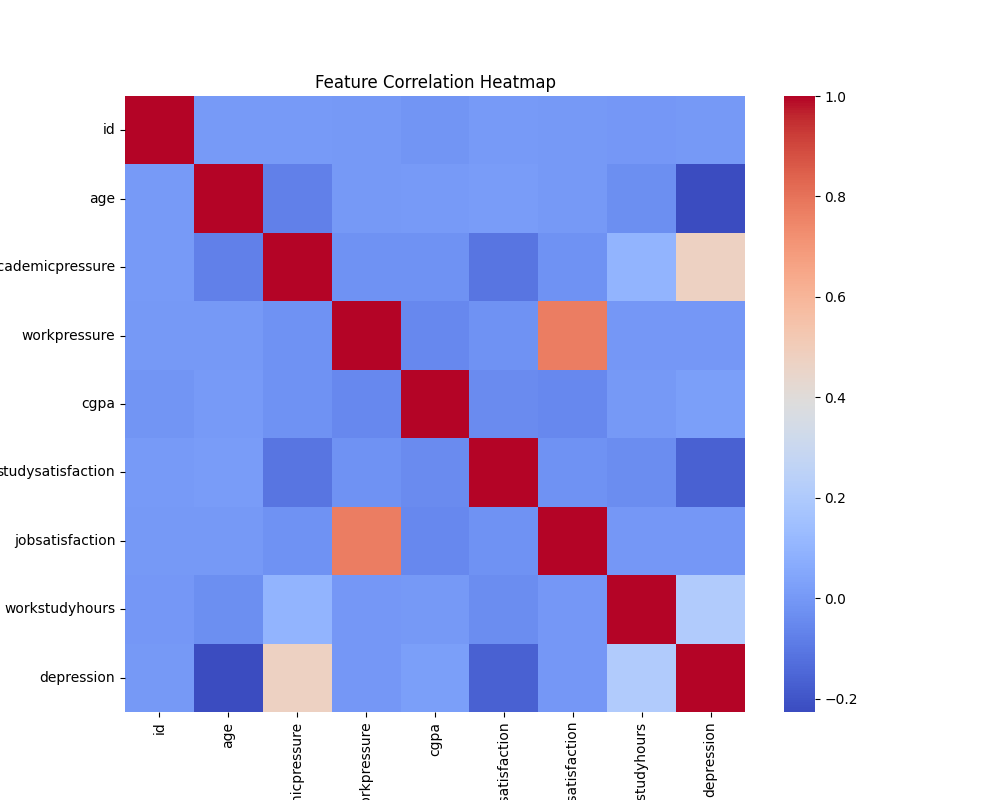
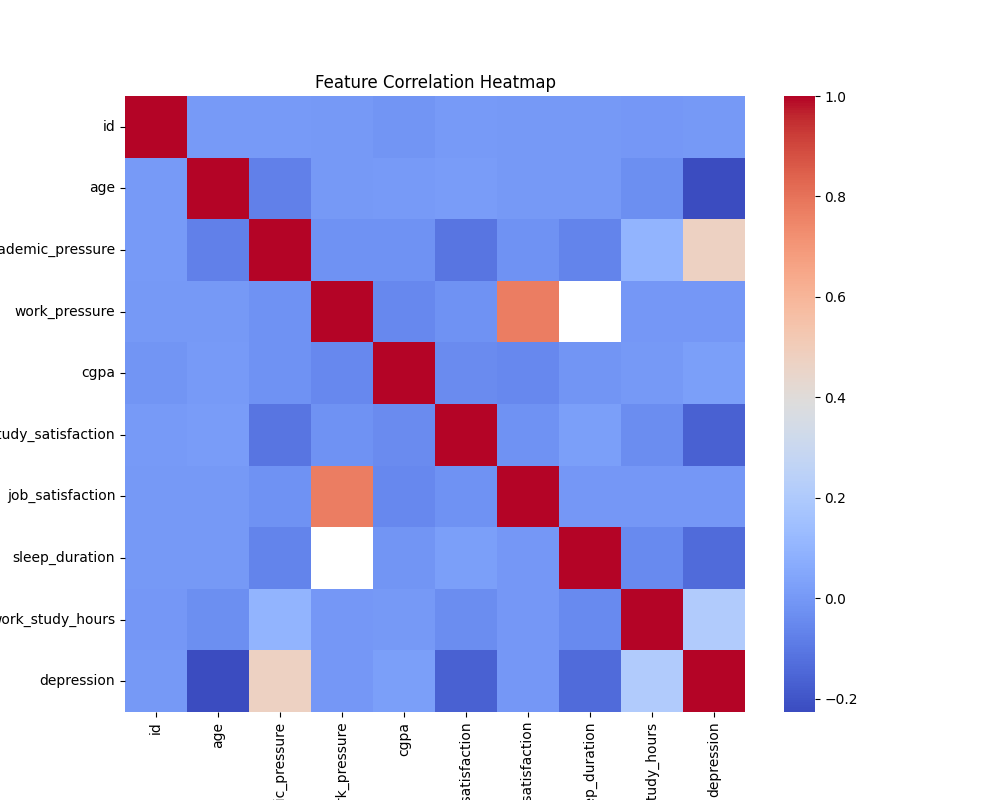
Refactor statistical analysis: remove duplicate sleep_vs_depression function and keep validated pipeline

diff --git a/src/stats_analysis.py b/src/stats_analysis.py
@@ -1,6 +1,8 @@
 import pandas as pd
 from scipy.stats import mannwhitneyu
 import numpy as np
+from pathlib import Path
+
 
 def cohens_d(x, y):
     nx, ny = len(x), len(y)
@@ -10,17 +12,46 @@ def cohens_d(x, y):
     return (np.mean(x) - np.mean(y)) / pooled_std
 
 
-def sleep_vs_depression(df):
-    g0 = df[df["depression"] == 0]["sleepduration"]
-    g1 = df[df["depression"] == 1]["sleepduration"]
+def sleep_vs_depression(df: pd.DataFrame,
+                        sleep_col: str = "sleep_duration",
+                        dep_col: str = "depression") -> dict:
+    # keep only needed cols and drop missing
+    tmp = df[[sleep_col, dep_col]].copy()
+    tmp = tmp.dropna(subset=[sleep_col, dep_col])
 
-    stat, p = mannwhitneyu(g0, g1, alternative="two-sided")
+    # groups
+    g0 = tmp.loc[tmp[dep_col] == 0, sleep_col].astype(float)
+    g1 = tmp.loc[tmp[dep_col] == 1, sleep_col].astype(float)
+
+    # Mann–Whitney U (robust for non-normal)
+    u_stat, p_value = mannwhitneyu(g0, g1, alternative="two-sided")
 
     d = cohens_d(g0, g1)
 
     return {
-        "p_value": p,
-        "effect_size_d": d,
-        "n0": len(g0),
-        "n1": len(g1),
+        "factor": sleep_col,
+        "outcome": dep_col,
+        "test": "Mann-Whitney U",
+        "u_stat": float(u_stat),
+        "p_value": float(p_value),
+        "effect_size_cohens_d": float(d),
+        "n_depr0": int(len(g0)),
+        "n_depr1": int(len(g1)),
+        "mean_depr0": float(g0.mean()) if len(g0) else np.nan,
+        "mean_depr1": float(g1.mean()) if len(g1) else np.nan,
     }
+
+
+def run_statistical_analysis(df: pd.DataFrame, results_dir: Path) -> pd.DataFrame:
+    results_dir.mkdir(parents=True, exist_ok=True)
+
+    rows = [sleep_vs_depression(df)]
+    res = pd.DataFrame(rows)
+
+    out_path = results_dir / "stat_summary.csv"
+    res.to_csv(out_path, index=False)
+
+    print("\n Statistical results saved to:", out_path)
+    print(res)
+
+    return res

diff --git a/src/main.py b/src/main.py
@@ -1,6 +1,8 @@
 from pathlib import Path
 from data_loader import load_student_data
 from eda import run_basic_eda
+from stats_analysis import run_statistical_analysis
+
 
 def main():
     # project root
@@ -18,6 +20,9 @@ def main():
 
     print("Running research EDA...")
     run_basic_eda(df, output_dir)
+
+    results_dir = project_root / "results"
+    run_statistical_analysis(df, results_dir)
 
     print("\nDataset loaded successfully.")
     print("Shape:", df.shape)

diff --git a/src/eda.py b/src/eda.py
@@ -33,7 +33,7 @@ def run_basic_eda(df: pd.DataFrame, output_dir: Path):
 
     # Sleep vs Depression
     plt.figure()
-    sns.boxplot(x="depression", y="sleepduration", data=df)
+    sns.boxplot(x="depression", y="sleep_duration", data=df)
     plt.title("Sleep Duration vs Depression")
     plt.savefig(output_dir / "sleep_vs_depression.png")
     plt.close()

diff --git a/README.md b/README.md
@@ -1,3 +1,5 @@
+# Student Depression Behavioral Analysis
+ 
 ## Research Objective 
 
 This project conducts a reproducible statistical investigation of behavioral and lifestyle factors associated with student depression.
@@ -70,3 +72,27 @@ with higher depression prevalence, a commonly reported psychological factor.
 
 The heatmap highlights statistical relationships among numeric variables,
 helping identify potential predictors and confounding factors related to depression.
+
+---
+
+# Statistical Inference
+
+## Sleep Duration and Depression
+
+A Mann–Whitney U test revealed a statistically significant difference in sleep duration between students with and without depression  
+(**p = 6.34 × 10⁻⁶⁰**).
+
+Students with depression slept fewer hours on average  
+(**M = 5.82**) compared to non-depressed students (**M = 6.51**),  
+with a **small-to-moderate effect size** (**Cohen’s d = 0.28**).
+
+This finding suggests that **reduced sleep duration is meaningfully associated with depression risk** in the student population.
+
+---
+
+## Reproducibility
+
+To reproduce the full analysis pipeline:
+
+```bash
+python src/main.py
